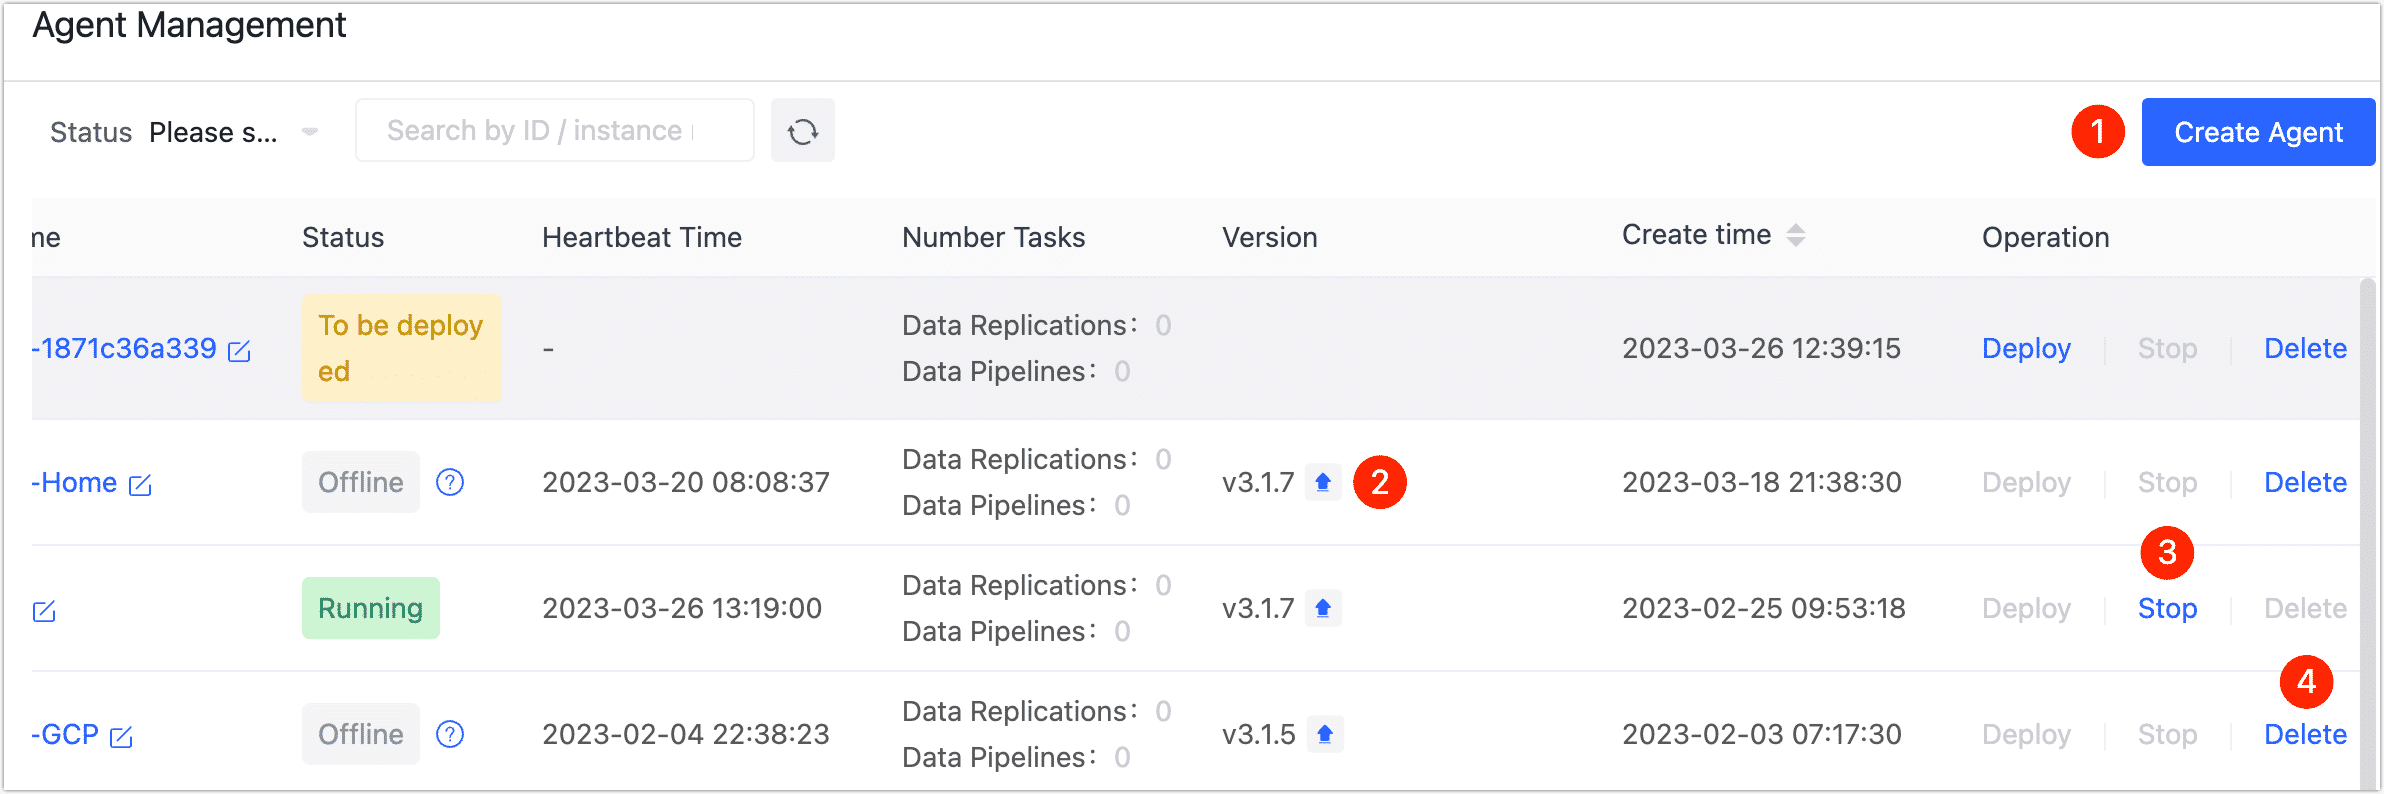
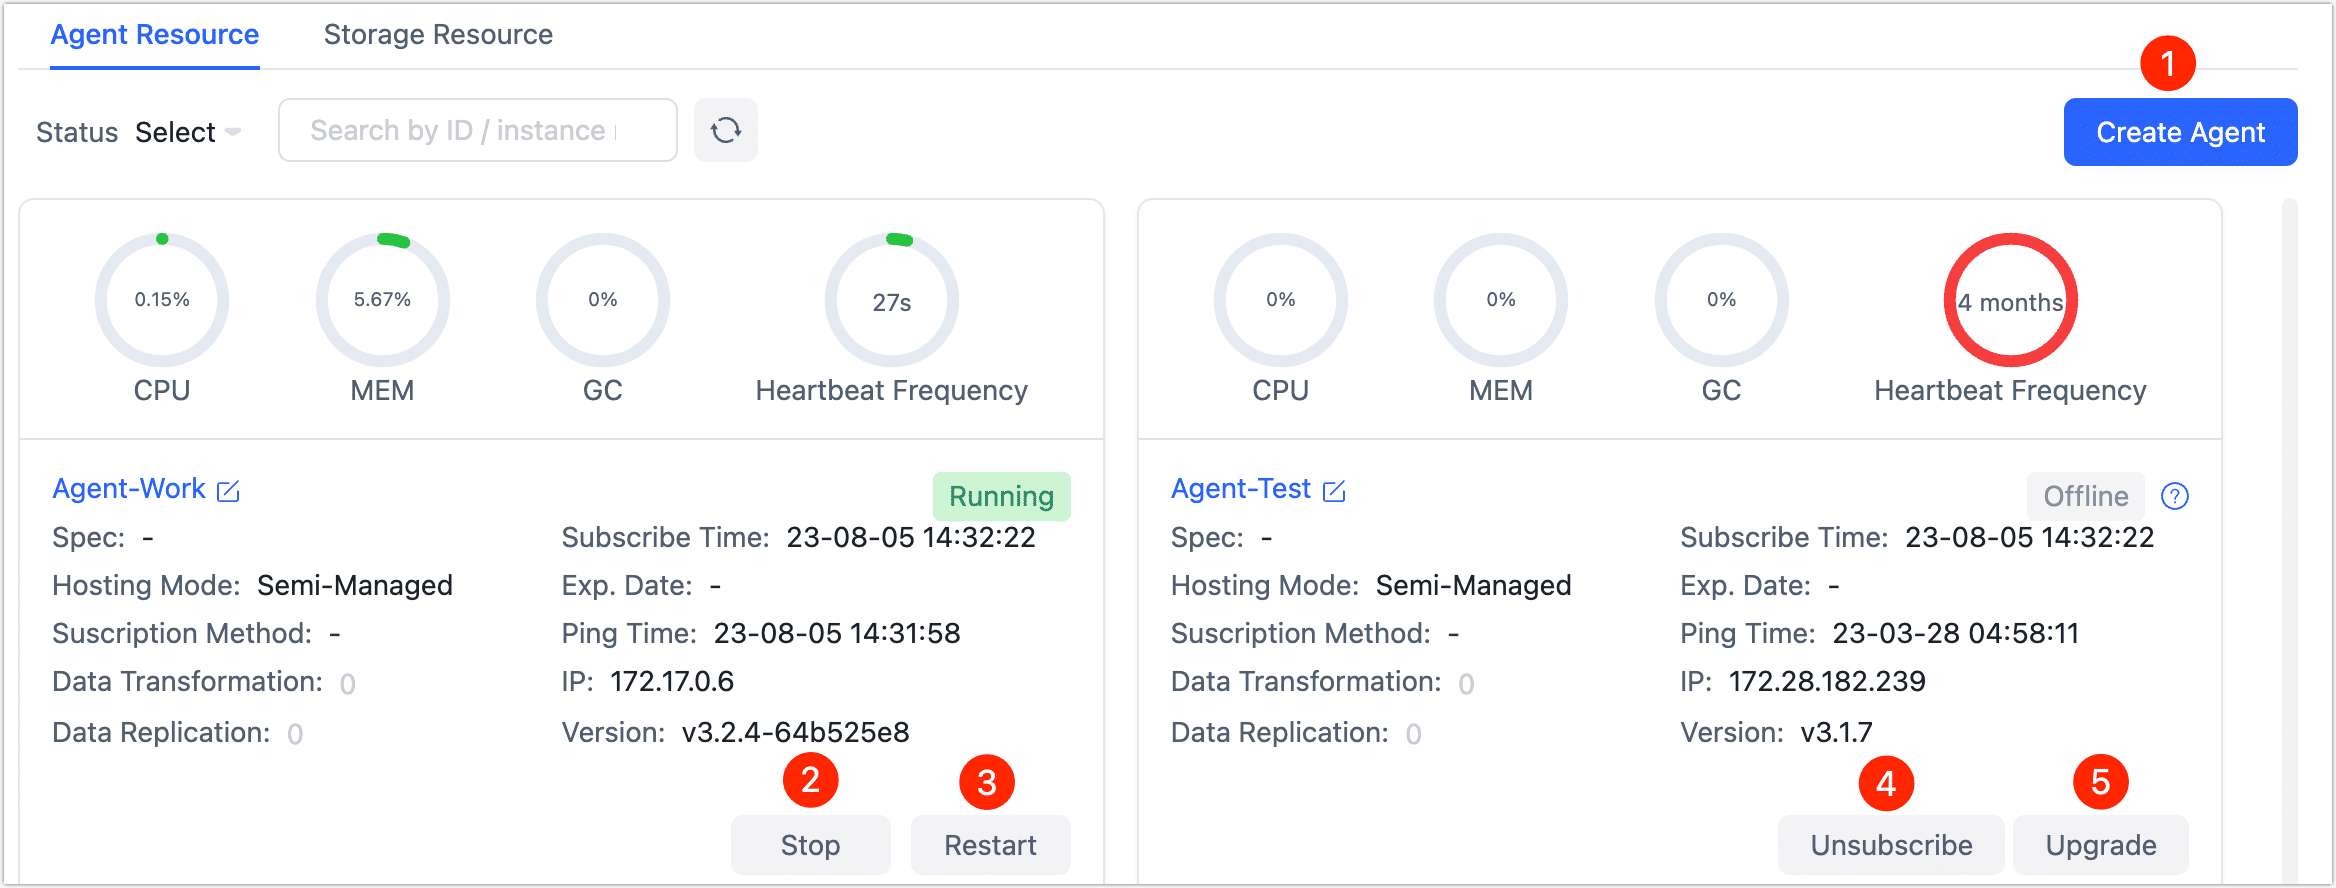
Update Agent Management

diff --git a/docs/cloud/user-guide/manage-agent.md b/docs/cloud/user-guide/manage-agent.md
@@ -8,7 +8,7 @@ Tapdata Cloud provides visual management and maintenance capabilities for Agents
 
 1. Log in to [Tapdata Cloud](https://cloud.tapdata.io/).
 
-2. Click **Agent** in the left navigation panel, and then choose which operation to perform.
+2. Click **Resource Management** in the left navigation panel, and then choose which operation to perform.
 
    ![](../images/agent_list.png)
 
@@ -21,7 +21,16 @@ import TabItem from '@theme/TabItem';
     <TabItem value="create-agent" label="① Create Agent" default>
     <p>Agent support multi-platform installation, see <a href="../quick-start/install-agent">Install Agent</a>.</p>
    </TabItem>
-   <TabItem value="upgrade-agent" label="② Upgrade Agent">
+   <TabItem value="stop-agent" label="② Stop Agent">
+   <p>Click <b>Stop</b> to pause the Agent, which can be used for temporary maintenance scenarios, to restart the Agent later, you should run it from the command line.</p>
+   </TabItem>
+   <TabItem value="restart-agent" label="③ Restart Agent">
+   <p>Click <b>Restart</b> to restart the Agent.</p>
+   </TabItem>
+   <TabItem value="delete-agent" label="④ Unsubscribe Agent">
+   <p>If the Agent is no longer needed, it can be unsubscribed after stopping it. Please note that once deleted, the Agent cannot be recovered.</p>
+   </TabItem>
+   <TabItem value="upgrade-agent" label="⑤ Upgrade Agent">
    <p>When a new version becomes available, an upgrade icon will appear on the right side of the version information. To initiate the upgrade process, follow these steps:</p>
    <p></p>
    <ul>
@@ -37,12 +46,6 @@ import TabItem from '@theme/TabItem';
    <li>Execute the upgrade command on the device where the Agent is installed.</li></ol></li>
   </ul> 
   <p>By following these instructions, you can easily upgrade to the latest version of the Agent software. If you encounter any issues during the upgrade process, please refer to the documentation or contact our support team for assistance.</p>
-   </TabItem>
-   <TabItem value="stop-agent" label="③ Stop Agent">
-   <p>Click <b>Stop</b> to pause the Agent, which can be used for temporary maintenance scenarios, to restart the Agent later, you should run it from the command line.</p>
-   </TabItem>
-   <TabItem value="delete-agent" label="④ Delete Agent">
-   <p>If the Agent is no longer needed, it can be deleted after stopping it. Please note that once deleted, the Agent cannot be recovered.</p>
    </TabItem>
   </Tabs>
 

diff --git a/docs/cloud/billing/purchase.md b/docs/cloud/billing/purchase.md
@@ -6,7 +6,7 @@ After registering with Tapdata Cloud, you will receive the benefit of creating o
 
 1. Log in to [Tapdata Cloud](https://cloud.tapdata.io/).
 
-2. In the left navigation panel, click **Agent Management**.
+2. In the left navigation panel, click **Resource Management**.
 
    After successfully creating a free Agent instance, if you find that your business requires additional Agent instances to meet performance needs, you can proceed with subscribing to more instances. This will allow you to scale up the capabilities of Tapdata Cloud to accommodate your business requirements effectively.
 

diff --git a/docs/cloud/billing/refund.md b/docs/cloud/billing/refund.md
@@ -6,9 +6,9 @@ If you no longer need to use the Agent instance, you can follow the process to u
 
 1. Log in to [Tapdata Cloud](https://cloud.tapdata.io/).
 
-2. In the left navigation panel, click **Agent Management**.
+2. In the left navigation panel, click **Resource Management**.
 
-3. Ensure that the Agent is not associated with a running task.
+3. In the **Agent Resource** tab, ensure that the Agent is not associated with a running task.
 
    1. Locate the target Agent to see if any running task is associated, skip this step if the there is not running task associated.
 
